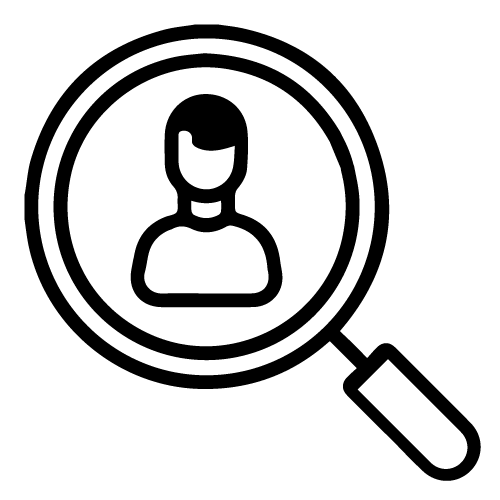
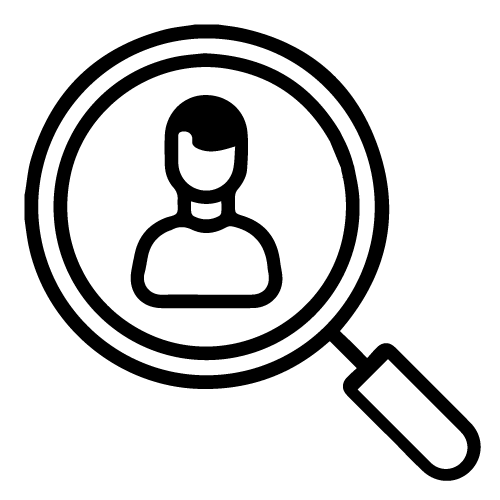
ere

diff --git a/index.html b/index.html
@@ -79,13 +79,13 @@
     <div class="job_searcing_wrap py-5" style="margin-top: 5.3rem;">
         <div class="container">
             <div class="row">
-                <div class="col-lg-6 text-center col-md-6">
+                <div class="col-lg-6 text-right col-md-6 pr-lg-5">
                    <img src="./images/mag-paper.png" class="img-fluid w-75">
                    <div class="title fs-1">
                        SEEKING WORKER
                    </div>
                 </div>
-                <div class="col-lg-6 text-center col-md-6">
+                <div class="col-lg-6   col-md-6 pl-lg-5">
                       <img src="./images/mag-person.png" class="img-fluid w-75">
                       <div class="title fs-1">
                       SEEKING WORK

diff --git a/css/style.css b/css/style.css
@@ -2425,7 +2425,7 @@ h3 {
   position: relative;
   z-index: 0;
   padding: 116px 0;
-  background: #e8e8e8;
+  background: #a8a8a8;
 }
 
 @media (max-width: 767px) {